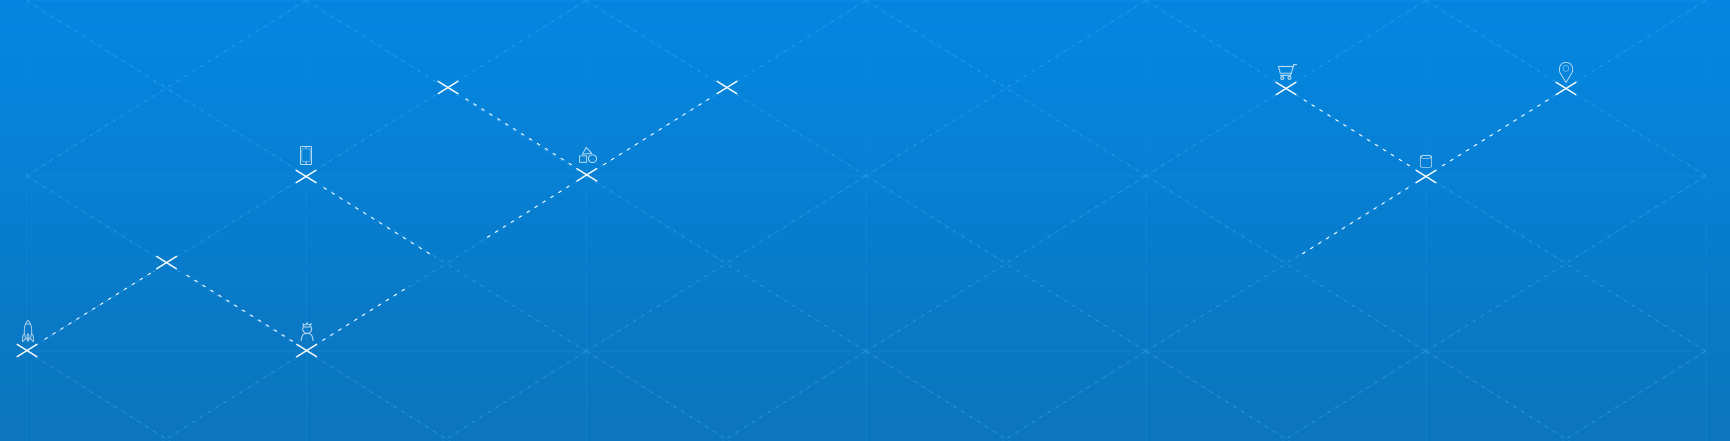
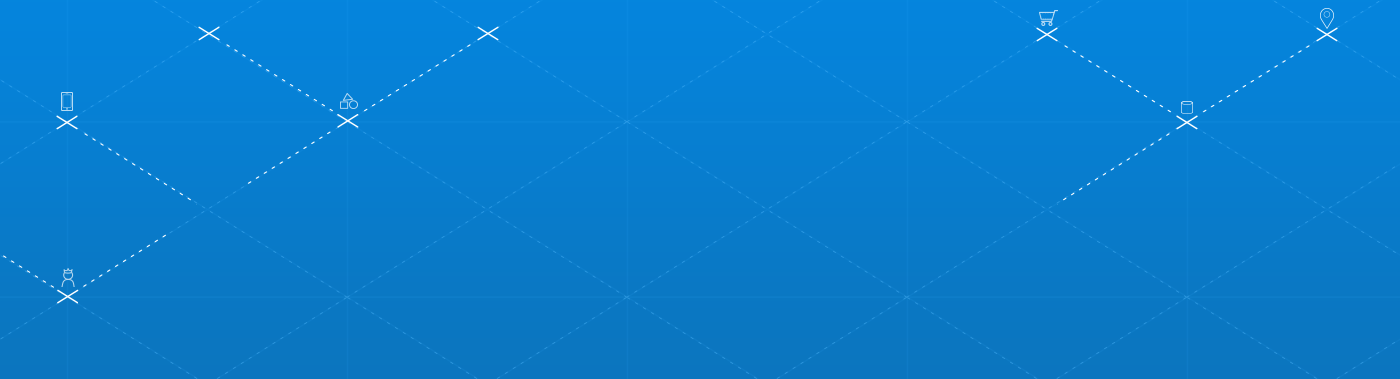
CCE-449 : add hybris experts link to homepage.

diff --git a/docs/template/public/less/_homepage.less b/docs/template/public/less/_homepage.less
@@ -5,11 +5,11 @@
 header.hyHomeHeaderMain {
     background: url("/images/home/banner_bg.png") top center repeat-x ;
     margin: -20px -15px 0 -15px; 
-    height: 440px;
+    height: 378px;
 }
 
 header.hyHomeHeaderMinor {
-    background-color: @screen-bg_gd;
+    border-bottom: 1px solid @grey-border;
     margin: 0 -15px;
 }
 
@@ -27,19 +27,33 @@ header.hyHomeHeaderMinor {
     .hyHomeHeader a {
         font-size: 18px;
         font-family: 'Dosis';
+
     }
 
     .hyHomeHeader2 p {
         margin-bottom: 0;
-        small {
-            font-size: 14px;
-        }
+        padding:20px;
+        font-size: 20px;
+
     }
 
     .hyHomeHeader {
         color: white;
         padding: 30px 0 100px 0;
+
+        h1{
+            margin:20px 0 30px 0;
+
+            @media (max-width: 769px) {
+                margin:10px 0 10px 0;
+            }
+        }
     
+        .techne-defination {
+            font-size: 14px;
+            margin-top: 40px;
+            display: block;
+        }
         .btn-warning{
             color: @btn-type-color;
         }
@@ -58,7 +72,7 @@ header.hyHomeHeaderMinor {
         line-height: 40px;
 
         @media (max-width: 769px) {
-            line-height: 20px;
+            line-height: 30px;
         }
     }
 

diff --git a/docs/markdown/index.md b/docs/markdown/index.md
@@ -2,11 +2,11 @@
     <header class="main-header hyHomeHeaderMain">
         <div class="container-fluid">
             <div class="page-header hyHomeHeader text-center">
-                <div class="col-md-8 col-md-offset-2">
-                    <img src="images/home/techne-logo.png" alt="techne" class="techne-logo">
+                <div class="col-md-6 col-md-offset-3 col-sm-8 col-sm-offset-2">
                     <h1>hybris techné*</h1>
                     <p>techne is the design guideline and component library for modern, mobile-first, user-centric experience design on YaaS that gives UX professionals the freedom and creativity to implement experiences from design to deployment FAST</p>
                     <a class="btn btn-warning" href="/GettingStarted.html">Download now</a>
+                    <span class="techne-defination text-center"><small>“techne” is a term derived from the Greek τέχνη, often translated as “craftmanship”, “craft”, or “art”.</small></span>
                 </div>
             </div>
         </div>
@@ -14,7 +14,7 @@
     <header class="hyHomeHeaderMinor">
         <div class="container-fluid">
             <div class="hyHomeHeader2">
-                <p class="text-center"><small>“techne” is a term derived from the Greek τέχνη, often translated as “craftmanship”, “craft”, or “art”.</small></p>
+                <p class="text-center">Have questions about Techné? Visit us at <a href="https://experts.hybris.com/topics/techne.html" target="_blank">Hybirs Experts ></a></p>
             </div>
         </div>
     </header>
